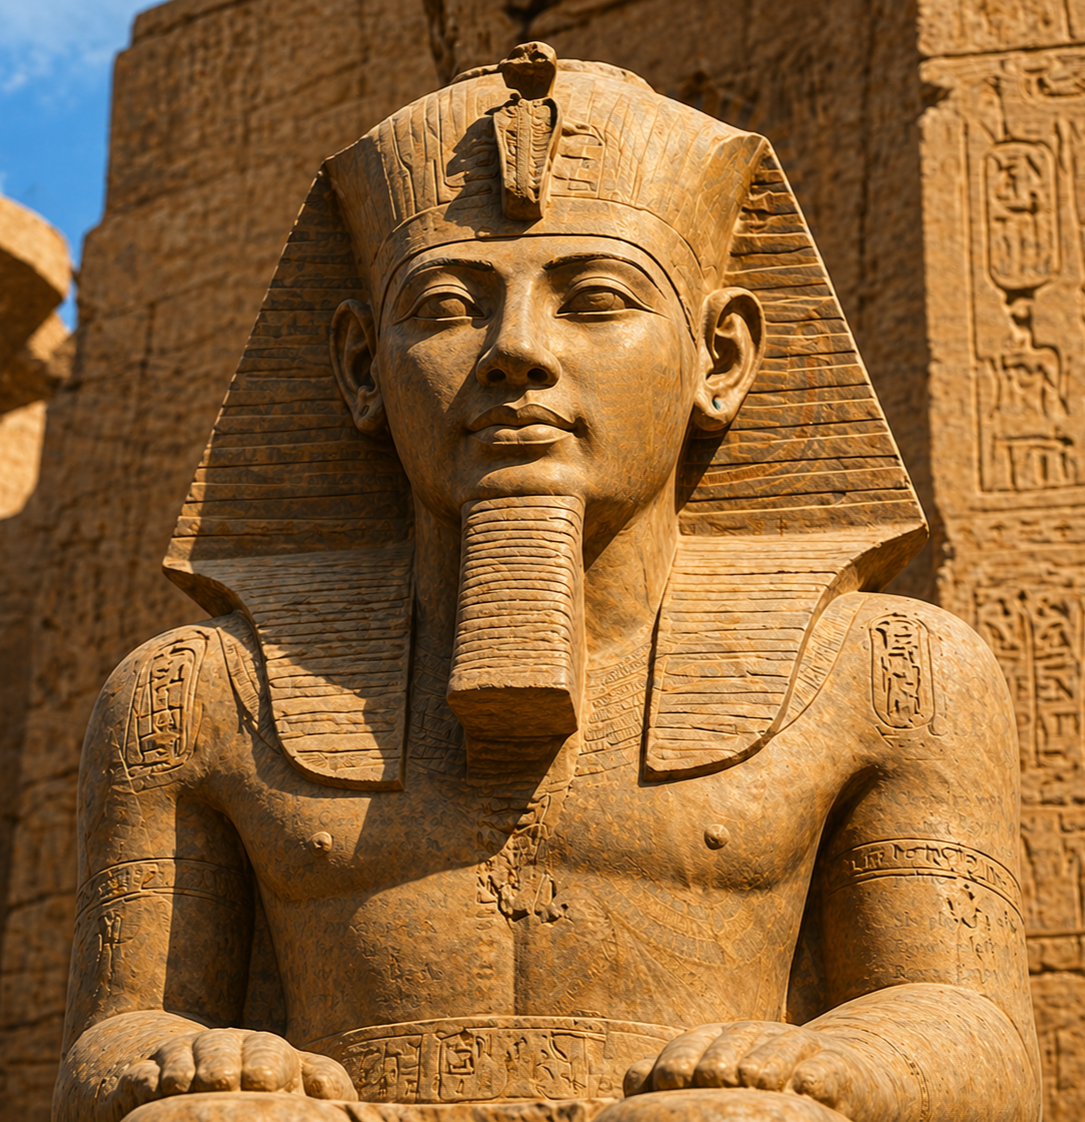
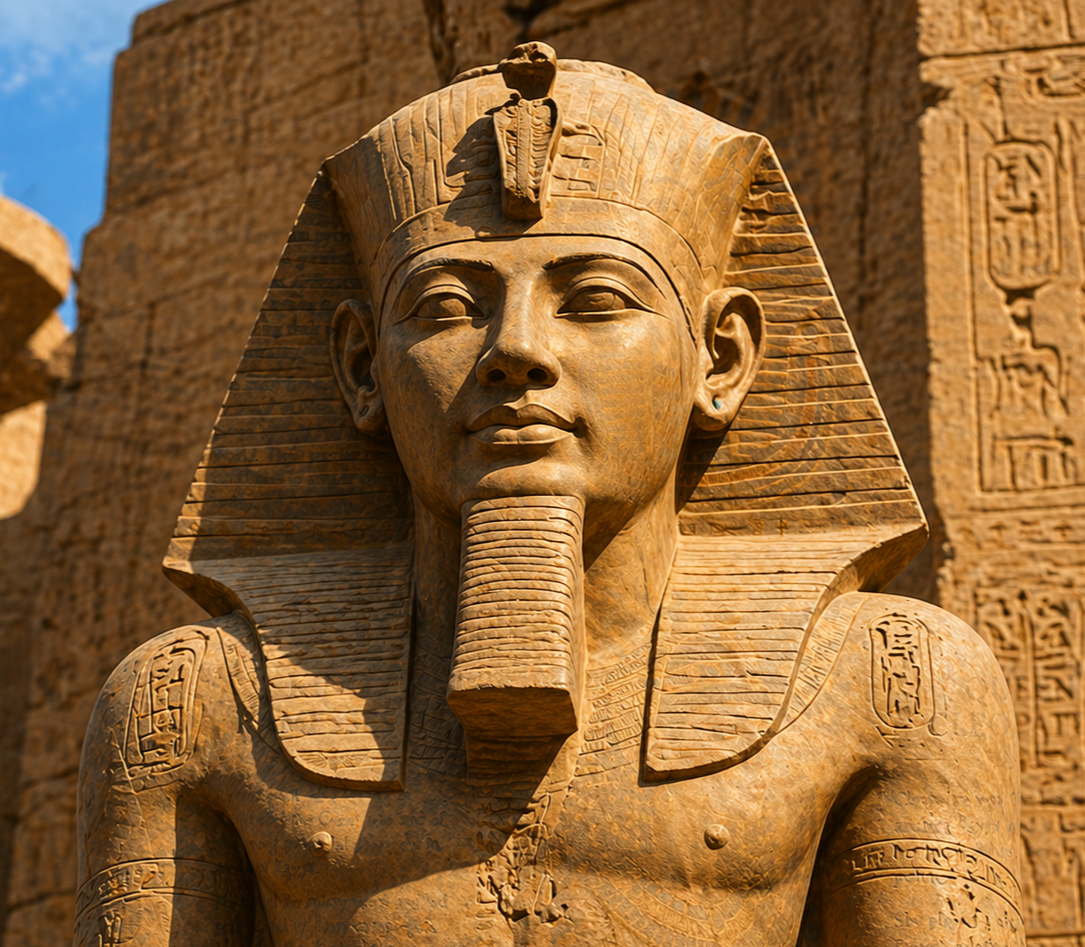
Section-4 finished, add 3 cards for others eras and card for home page

diff --git a/Pharaohs-Page/style.css b/Pharaohs-Page/style.css
@@ -6,14 +6,14 @@
 
 body {
     font-family: 'Times New Roman', Times, serif;
-    color: #f3c96b; /* لون ذهبي */
+    color: #f3c96b;
     background-color: #000;
-    overflow-x: hidden; /* منع ظهور شريط التمرير الأفقي */
+    overflow-x: hidden;
 }
 
 /* All sections dimensions */
 .page-section {
-    height: 100vh; /* كل قسم يأخذ طول الشاشة بالكامل */
+    height: 100vh;
     display: flex;
     justify-content: center;
     align-items: center;
@@ -44,8 +44,8 @@ body {
 }
 h1 {
     font-size: 3.5rem;
-    text-transform: uppercase; /* جعل الحروف كبيرة */
-    letter-spacing: 4px; /* مسافات بين الحروف لتعطي شكل فخم */
+    text-transform: uppercase;
+    letter-spacing: 4px;
     margin-bottom: 1.5rem;
 }
 p {
@@ -183,13 +183,13 @@ p {
     right: 14%;
     transform: rotateY(-25deg);
 }
-
 .glass-card:hover {
     transform: rotateY(0deg) scale(1.15) translateZ(50px);
     border: 1px solid #d4af37;
     background: rgba(212, 175, 55, 0.1);
     z-index: 100;
 }
+
 .section-3 .content{
     font-family: 'Marcellus', serif;
     text-transform: uppercase;
@@ -208,9 +208,9 @@ p {
     font-weight: 800;
     background: linear-gradient(
         to bottom, 
-        #fff3ad 0%,   /* أبيض مائل للذهبي للإضاءة */
-        #ffcf10 40%,  /* ذهبي مشرق */
-        #d4af37 100%  /* ذهبي كلاسيكي */
+        #fff3ad 0%,
+        #ffcf10 40%,
+        #d4af37 100%
     );
     -webkit-background-clip: text;
     -webkit-text-fill-color: transparent;
@@ -219,7 +219,6 @@ p {
             drop-shadow(0 0 8px rgba(212, 175, 55, 0.4));
     background-clip: text;
 }
-
 /* For 4 cards and the caption */
 .card.active {
     opacity: 1;
@@ -231,29 +230,150 @@ p {
     display: none;
     position: fixed;
     inset: 0;
-    background: rgba(0,0,0,0.7);
+    background: rgba(0,0,0,0.85);
     justify-content: center;
     align-items: center;
-    z-index: 10000;
+    z-index: 999999 !important;
+    pointer-events: auto;
 }
 .popup-content {
-    background: rgba(255, 255, 255, 0.1); 
-    backdrop-filter: blur(10px);
-    -webkit-backdrop-filter: blur(10px);
-    padding: 20px;
-    border-radius: 20px;
-    color: white;
-    width: 300px;
+    background: #cab17f;
+    background-image: url('https://www.transparenttextures.com/patterns/paper-fibers.png');
+    padding: 30px;
+    border-radius: 15px;
+    color: #352515;
+    width: 90%;
+    max-width: 500px;
     text-align: center;
-    z-index: 10000;
+    position: relative;
+    border: 6px double #C9A24A;
+    box-shadow: 0 0 40px rgba(0,0,0,0.6);
+    pointer-events: auto;
 }
+.popup-content h2 {
+    max-width: 80%;
+    font-family: 'Cinzel', serif;
+    color: #8a6d1a;
+    border-bottom: 2px solid #C9A24A;
+    margin: 0 auto 15px;
+    padding-bottom: 5px;
+    text-shadow: 0 1px 2px rgba(22, 22, 22, 0.808);
+}
+.popup-content img {
+    width: 80%;
+    max-height: 250px;
+    object-fit: cover;
+    border: 2px solid #C9A24A;
+    border-radius: 8px;
+    margin-bottom: 15px;
+}
+#popup4 img{
+    object-fit: contain;
+}
+
+.popup-content p {
+    color: #3B2A1A;
+    font-family: 'Marcellus', serif;
+    line-height: 1.5;
+    font-size: 1.05rem;
+    text-align: justify;
+    max-width: 80%;
+    margin: auto;
+}
+
 .close {
+    font-weight: bold;
     position: absolute;
     top: 10px;
     right: 15px;
-    font-size: 28px;
+    font-size: 32px;
+    color: #8a6d1a;
     cursor: pointer;
-    z-index: 10000;
-    color: white;
+    transition: color 0.3s;
+}
+.close:hover {
+    font-size: 2.1rem;
+    font-weight: bolder;
+    color: #C9A24A; 
 }
 /* ---------------------------------------------------------------*/
+
+/* ------------------------- Section-4 -------------------------- */
+.all-cards {
+    display: flex;
+    justify-content: center;
+    align-items: center;
+    height: 100vh;
+}
+
+.all-cards a:not(.center-card) {
+    border-radius: 20px;
+    height: 50%;
+    width: 15%;
+    position: absolute;
+    display: block;
+    transition: transform 0.3s ease;
+}
+.all-cards .center-card{
+    position: absolute;
+    top: 40%;
+    display: block;
+    width: 13%;
+    border-radius: 50%;
+    margin: 0 15%;
+    transition: transform 0.3s ease;
+}
+
+.all-cards .left-card{
+    left: 22%;
+    border: 3px solid #00d4ff;
+    box-shadow: 0 0 2px #0ff, 0 0 10px #0ff, 0 0 15px #0ff;
+}
+.all-cards .right-card{
+    right: 22%;
+    border: 3px solid #2c1904;
+    box-shadow: 0 0 2px #aa620f, 0 0 10px #aa620f, 0 0 15px #aa620f;
+}
+
+.all-cards img:not(.center-card img) {
+    object-fit: cover;
+    width: 100%;
+    height: 100%;
+    border-radius: 15px;
+    box-shadow: 0 4px 15px rgba(0, 0, 0, 0.5);
+}
+
+.all-cards .center-card img{
+    border: #3f2304 8px double;
+    border-radius: 50%;
+    width: 100%;
+    object-fit: cover;
+}
+
+.all-cards a:hover {
+    transform: scale(1.1);
+}
+.all-cards .center-card:hover{
+    transition: transform 0.7s ease;
+    transform: rotate(360deg) scale(0.7);
+}
+
+.all-cards .left-card img:hover {
+    filter: brightness(1.07);
+}
+.all-cards .right-card img:hover {
+    filter: brightness(1.2);
+}
+.all-cards .center-card img:hover {
+    filter: brightness(0.5);
+}
+
+.section-4 .footer{
+    position: absolute;
+    bottom: 10px;
+    font-size: small;
+    font-weight: bolder;
+    color: #f3c96b;;
+    font-family:'Times New Roman', Times, serif;
+    text-shadow: 0 2px 6px rgba(0, 0, 0, 0.986);
+}

diff --git a/Pharaohs-Page/pharaohs.html b/Pharaohs-Page/pharaohs.html
@@ -54,42 +54,61 @@
         </section>
 
         <section class="page-section section-4">
-            <!-- <div class="content">
-                <h1>The Underworld Gate</h1>
-                <p>Descending into the depths where the golden light never fades.</p>
-            </div> -->
+            <div class="all-cards">
+                <a class="left-card" href=""> <img src="media/toAtlantis.png" alt="go to atlantis"> </a>
+                <a class="center-card" href=""> <img src="media/toHome2.png" alt="back to home"> </a>
+                <a class="right-card" href=""> <img src="media/toNatives.png" alt="go to american natives"> </a>
+            </div>
+            <p class="footer">&copy;2026 ERA VOYAGE. All rights reserved.</p>
         </section>
 
         <!-- The Sections Thats open when clicks on the cards -->
         <div id="popup1" class="popup">
             <div class="popup-content">
                 <span class="close">&times;</span>
-                <h2></h2>
-                <p>Details here...</p>
+                <h2>The Great Pyramids</h2>
+                <img src="media/pyramids.png" alt="pyramids">
+                <p>
+                    The Egyptian pyramids are among the greatest achievements of ancient civilization. 
+                    They were built as tombs for the pharaohs, reflecting their power and immortality. 
+                    The most famous is the Great Pyramid of Giza, one of the Seven Wonders of the Ancient World. 
+                    Their precise construction continues to amaze scientists today.
+                </p>
             </div>
         </div>
         <div id="popup2" class="popup">
             <div class="popup-content">
                 <span class="close">&times;</span>
-                <h2></h2>
-                <img src="" alt="">
-                <p>Details here...</p>
+                <h2>King Ramesses II</h2>
+                <img src="media/ramsess2.png" alt="king ramsess II">
+                <p>
+                    Ramesses II, also known as Ramesses the Great, was one of the most powerful pharaohs in ancient Egypt. 
+                    He ruled for many years and led successful military campaigns. 
+                    He is famous for building monumental structures like the Abu Simbel temples, leaving a lasting legacy.
+                </p>
             </div>
         </div>
         <div id="popup3" class="popup">
             <div class="popup-content">
                 <span class="close">&times;</span>
-                <h2></h2>
-                <img src="" alt="">
-                <p>Details here...</p>
+                <h2>Queen Cleopatra</h2>
+                <img src="media/celeopatra2.JPG" alt="queen celeopatra">
+                <p>
+                    Cleopatra was the last ruler of ancient Egypt and is known for her intelligence, beauty, and political skills. 
+                    She played a significant role in Egypt’s relationship with the Roman Empire and remains one of the most famous women in history.
+                </p>
             </div>
         </div>
         <div id="popup4" class="popup">
             <div class="popup-content">
                 <span class="close">&times;</span>
-                <h2></h2>
-                <img src="" alt="">
-                <p>Details here...</p>
+                <h2>Tutankhamun’s Golden Mask</h2>
+                <img src="media/tot.png" alt="Tutankhamun’s Mask">
+                <p>
+                    Tutankhamun’s mask is one of the most iconic artifacts in history. 
+                    Made of solid gold and decorated with precious stones, it was discovered in the tomb of King Tutankhamun. 
+                    The mask represents the artistic brilliance of ancient Egypt and their strong belief in the afterlife.
+                </p>
             </div>
         </div>
 